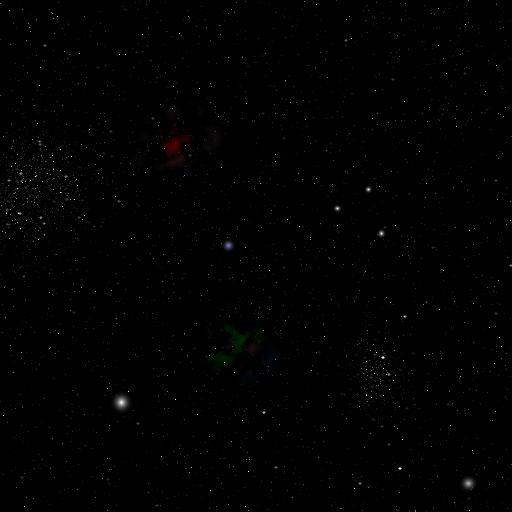
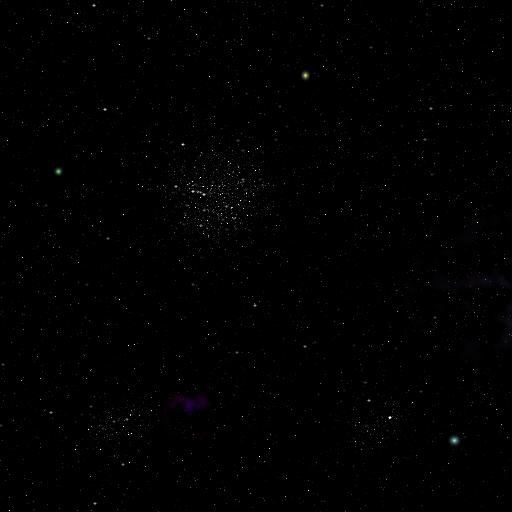
optimize the skybox

diff --git a/src/js/Draw.js b/src/js/Draw.js
@@ -103,9 +103,9 @@ var redraw = function()
     drawPlaneCube(gl, PlaneProgram, cube_black, 7, viewmatrix, modelmatrix, projmatrix, mvpmatrix, PlaneProgram.u_MvpMatrix , PlaneProgram.u_NormalMatrix);
 
     if (flag > 0)
-      drawSkybox(gl, SkyProgram, projmatrix, viewmatrix, imgs);
+      drawSkybox(gl, SkyProgram, projmatrix, viewmatrix, texture0, 0);
     else
-      drawSkybox(gl, SkyProgram, projmatrix, viewmatrix, imgs1);
+      drawSkybox(gl, SkyProgram, projmatrix, viewmatrix, texture1, 1);
 
     requestAnimationFrame(redraw, canvas);
  }
@@ -248,8 +248,37 @@ function onReadComplete(gl, model, objDoc) {
   return drawingInfo;
 }
 
+function drawSkybox(gl, SkyProgram, projMatrix, viewmatrix, texture, i){
+  gl.useProgram(SkyProgram);
 
+  gl.uniformMatrix4fv(SkyProgram.u_ViewMatrix, false, skyviewmatrix.elements);
+  gl.uniformMatrix4fv(SkyProgram.u_ProjMatrix, false, projMatrix.elements);
 
+  //顶点属性
+  gl.bindBuffer(gl.ARRAY_BUFFER, vertexSkyBuffer);
+  gl.bufferData(gl.ARRAY_BUFFER, vertexSkybox, gl.STATIC_DRAW);
+  var skybox_FSIZE = vertexSkybox.BYTES_PER_ELEMENT;
+  gl.vertexAttribPointer(SkyProgram.a_Position, 3, gl.FLOAT, false, skybox_FSIZE*3, 0);
+  gl.enableVertexAttribArray(SkyProgram.a_Position);
+
+  //索引属性
+  gl.bindBuffer(gl.ELEMENT_ARRAY_BUFFER, indexSkyboxBuffer);
+  gl.bufferData(gl.ELEMENT_ARRAY_BUFFER, skyboxIndex, gl.STATIC_DRAW);
+
+  
+  gl.bindTexture(gl.TEXTURE_CUBE_MAP, texture);
+  if (i==0){
+    gl.uniform1i(SkyProgram.u_SkyTexMap, 0);
+    gl.activeTexture(gl.TEXTURE0);
+  }
+  else{
+    gl.uniform1i(SkyProgram.u_SkyTexMap, 0);
+    gl.activeTexture(gl.TEXTURE1);
+  }
+  gl.drawElements(gl.TRIANGLES, skyboxIndex.length, gl.UNSIGNED_SHORT,skyboxIndex.BYTES_PER_ELEMENT * 0);
+}
+
+/*
 function drawSkybox(gl, SkyProgram, projMatrix, viewmatrix, imgs){
   
   //传递参数
@@ -263,20 +292,6 @@ function drawSkybox(gl, SkyProgram, projMatrix, viewmatrix, imgs){
     console.log('Failed to create the buffer object vertexSkyBuffer');
     return;
   }
-
-  //顶点属性
-  gl.bindBuffer(gl.ARRAY_BUFFER, vertexSkyBuffer);
-  gl.bufferData(gl.ARRAY_BUFFER, vertexSkybox, gl.STATIC_DRAW);
-  var skybox_FSIZE = vertexSkybox.BYTES_PER_ELEMENT;
-  gl.vertexAttribPointer(SkyProgram.a_Position, 3, gl.FLOAT, false, skybox_FSIZE*3, 0);
-  gl.enableVertexAttribArray(SkyProgram.a_Position);
-
-  //索引属性
-  var indexSkyboxBuffer = gl.createBuffer();
-  gl.bindBuffer(gl.ELEMENT_ARRAY_BUFFER, indexSkyboxBuffer);
-  gl.bufferData(gl.ELEMENT_ARRAY_BUFFER, skyboxIndex, gl.STATIC_DRAW);
-  skybox_IINDEX = skyboxIndex.length;
-  skybox_IFSIZE = skyboxIndex.BYTES_PER_ELEMENT;
 
   //纹理创建
   var texture = gl.createTexture();
@@ -298,3 +313,5 @@ function drawSkybox(gl, SkyProgram, projMatrix, viewmatrix, imgs){
   gl.activeTexture(gl.TEXTURE0);
   gl.drawElements(gl.TRIANGLES, skybox_IINDEX, gl.UNSIGNED_SHORT, skybox_IFSIZE * 0);
 }
+*/
+

diff --git a/src/js/Init.js b/src/js/Init.js
@@ -330,7 +330,6 @@ function initAttributeVariable(gl, a_attribute, buffer) {
 //初始化天空盒
 function initSkybox(){
   SkyProgram = createProgram(gl, SKY_VERTEX_SHADER, SKY_FRAGMENT_SHADER);
-  console.log('xxx');
   if (!SkyProgram)
   {
     console.log('Failed to intialize skybox shaders.');
@@ -373,4 +372,59 @@ function skyboxMapping(){
     console.log("Failed to get store location from progrom");
     return;
   }
+  vertexSkyBuffer = gl.createBuffer();
+  if (!vertexSkyBuffer) {
+    console.log('Failed to create the buffer object vertexSkyBuffer');
+    return;
+  }
+
+  //索引属性
+  indexSkyboxBuffer = gl.createBuffer();
+  if (!indexSkyboxBuffer) {
+    console.log('Failed to create the buffer object indexSkyboxBuffer');
+    return;
+  }
+
+  createSkyboxTex(0);
+  createSkyboxTex(1);
+}
+
+function createSkyboxTex(i){
+  //gl.useProgram(SkyProgram);
+
+  if (i==0){
+    texture0 = gl.createTexture();
+    //gl.activeTexture(gl.TEXTURE0);
+    gl.bindTexture(gl.TEXTURE_CUBE_MAP, texture0);
+
+    //创建六张纹理
+    for (var i = 0; i < 6; i++) {
+      gl.texImage2D(targets[i], 0, gl.RGB, gl.RGB, gl.UNSIGNED_BYTE, imgs[i]);    
+    }
+
+    gl.texParameteri(gl.TEXTURE_CUBE_MAP, gl.TEXTURE_MIN_FILTER, gl.LINEAR);
+    gl.texParameteri(gl.TEXTURE_CUBE_MAP, gl.TEXTURE_MAG_FILTER, gl.LINEAR);
+    gl.texParameteri(gl.TEXTURE_CUBE_MAP, gl.TEXTURE_WRAP_S, gl.CLAMP_TO_EDGE);
+    gl.texParameteri(gl.TEXTURE_CUBE_MAP, gl.TEXTURE_WRAP_T, gl.CLAMP_TO_EDGE);
+
+    //gl.uniform1i(SkyProgram.u_SkyTexMap, 0);
+  }
+  else{
+    texture1 = gl.createTexture();
+    //gl.activeTexture(gl.TEXTURE1);
+    gl.bindTexture(gl.TEXTURE_CUBE_MAP, texture1);
+
+    //创建六张纹理
+    for (var i = 0; i < 6; i++) {
+      gl.texImage2D(targets[i], 0, gl.RGB, gl.RGB, gl.UNSIGNED_BYTE, imgs1[i]);    
+    }
+
+    gl.texParameteri(gl.TEXTURE_CUBE_MAP, gl.TEXTURE_MIN_FILTER, gl.LINEAR);
+    gl.texParameteri(gl.TEXTURE_CUBE_MAP, gl.TEXTURE_MAG_FILTER, gl.LINEAR);
+    gl.texParameteri(gl.TEXTURE_CUBE_MAP, gl.TEXTURE_WRAP_S, gl.CLAMP_TO_EDGE);
+    gl.texParameteri(gl.TEXTURE_CUBE_MAP, gl.TEXTURE_WRAP_T, gl.CLAMP_TO_EDGE);
+
+    //gl.uniform1i(SkyProgram.u_SkyTexMap, 1);
+  }
+
 }

diff --git a/src/js/DataStructure.js b/src/js/DataStructure.js
@@ -12,6 +12,12 @@ var imgs;//load texture image
 var imgs1;//other image
 var flag = 1;//switch maps
 
+var texture0;
+var texture1;
+
+var vertexSkyBuffer;
+var indexSkyboxBuffer;
+
 var cube_white;
 var cube_red;
 var cube_black;
@@ -202,12 +208,12 @@ var g_drawingInfo_BOWIE = null; // The information for drawing 3D model
 
 
 var urls = [
-    '../../resources/mp_vr/rt.jpg',
-    '../../resources/mp_vr/lf.jpg',
-    '../../resources/mp_vr/up.jpg',
-    '../../resources/mp_vr/dn.jpg',
-    '../../resources/mp_vr/bk.jpg',
-    '../../resources/mp_vr/ft.jpg'
+    '../../resources/cloud/rt.jpg',
+    '../../resources/cloud/lf.jpg',
+    '../../resources/cloud/up.jpg',
+    '../../resources/cloud/dn.jpg',
+    '../../resources/cloud/bk.jpg',
+    '../../resources/cloud/ft.jpg'
   ];
 
 
